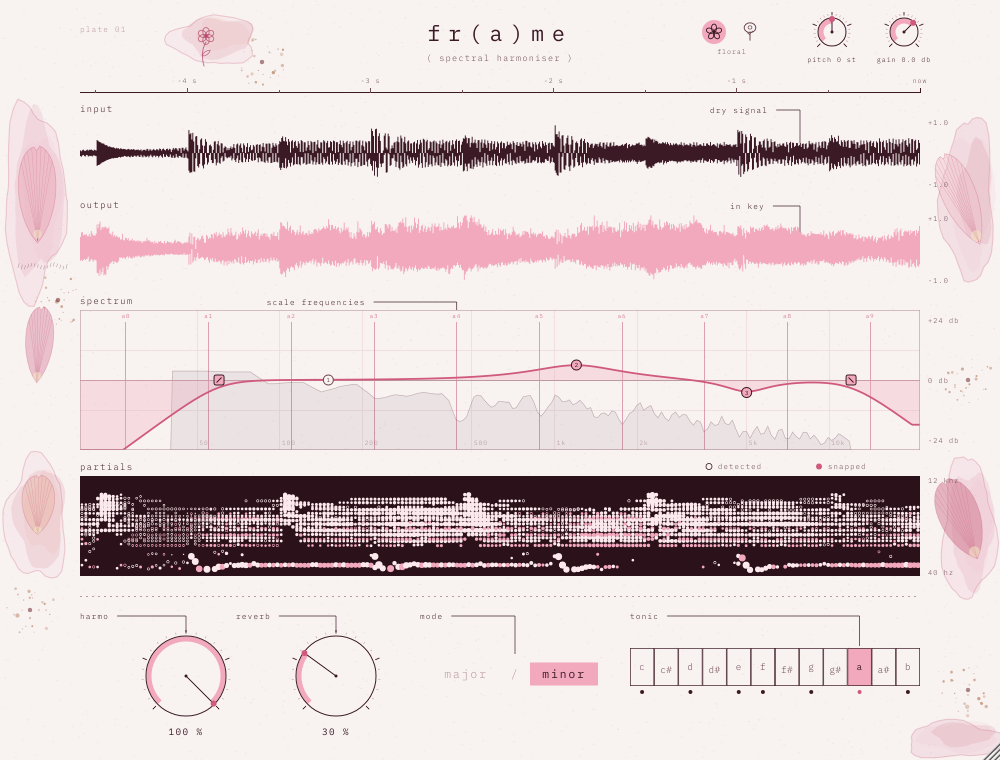
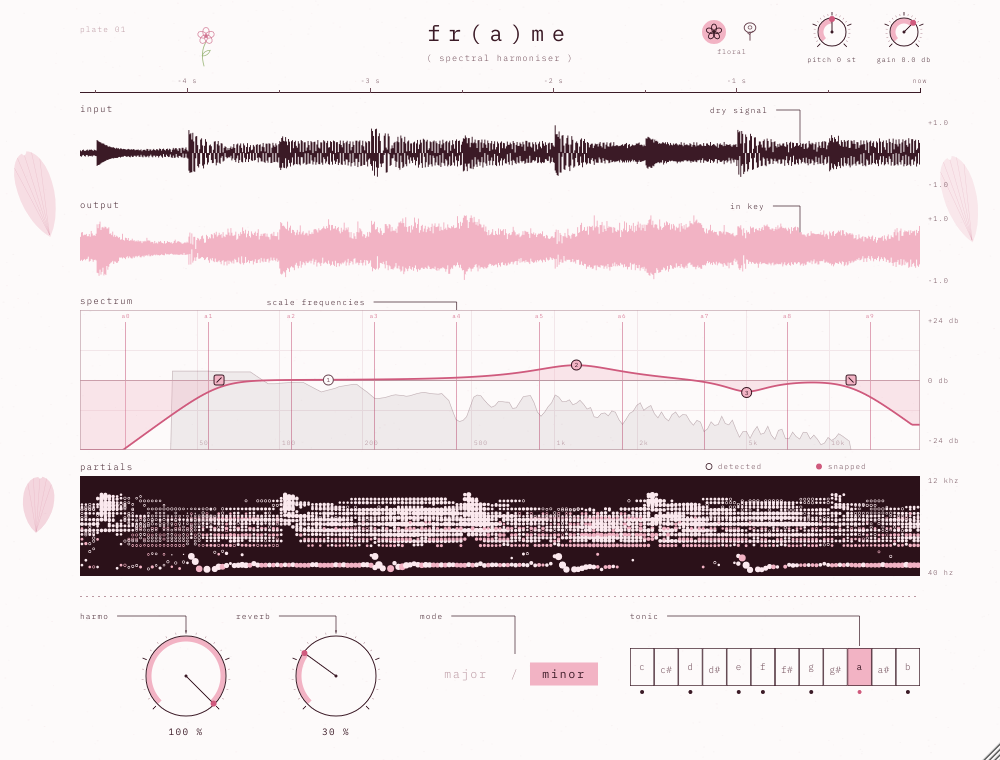
fr(a)me 2.4.1 : thèmes floral et garden épurés (blanc dominant, touches de rose et de vert)
Claude-Session: https://claude.ai/code/session_01BthVUY6Bak1JTWBvTbc3au

diff --git a/Source/FrameLookAndFeel.cpp b/Source/FrameLookAndFeel.cpp
@@ -184,12 +184,12 @@ namespace
 
     void paperGrain (juce::Graphics& g, juce::Rectangle<float> page, juce::Random& rng, juce::Colour tint, juce::Colour neutral)
     {
-        for (int i = 0; i < 2600; ++i)
+        for (int i = 0; i < 1200; ++i)                       // grain léger : le fond reste blanc
         {
             const float x = page.getX() + rng.nextFloat() * page.getWidth();
             const float y = page.getY() + rng.nextFloat() * page.getHeight();
             const bool tinted = rng.nextFloat() < 0.35f;
-            g.setColour ((tinted ? tint : neutral).withAlpha (0.05f + 0.07f * rng.nextFloat()));
+            g.setColour ((tinted ? tint : neutral).withAlpha (0.03f + 0.04f * rng.nextFloat()));
             g.fillRect (x, y, 1.0f + rng.nextFloat(), 1.0f);
         }
     }
@@ -205,230 +205,130 @@ namespace
         p.quadraticTo (x + lean * 0.25f, y - height * 0.6f, x + lean, y - height);
         g.strokePath (p, juce::PathStrokeType (width, juce::PathStrokeType::curved, juce::PathStrokeType::rounded));
     }
-
-    // Touffe d'herbes : n brins depuis une petite zone, tous penchés par le même vent.
-    void grassTuft (juce::Graphics& g, juce::Random& rng, float x, float y, float spread, float height, int n, const juce::Colour* cols, int numCols)
-    {
-        for (int i = 0; i < n; ++i)
-        {
-            const float bx = x + (rng.nextFloat() - 0.5f) * spread;
-            const float h = height * (0.45f + 0.55f * rng.nextFloat());
-            g.setColour (cols[rng.nextInt (numCols)].withAlpha (0.35f + 0.35f * rng.nextFloat()));
-            grassBlade (g, bx, y, h, h * (0.35f + 0.5f * rng.nextFloat()), 0.6f + 0.5f * rng.nextFloat());
-        }
-    }
-
-    // Forme organique (lavis, pétale) : contour au rayon bruité.
-    juce::Path blob (juce::Point<float> c, float rx, float ry, juce::Random& rng, float roughness, int points = 40)
-    {
-        juce::Path p;
-        float phase1 = rng.nextFloat() * 6.28f, phase2 = rng.nextFloat() * 6.28f;
-        for (int i = 0; i <= points; ++i)
-        {
-            const float a = juce::MathConstants<float>::twoPi * (float) i / (float) points;
-            const float k = 1.0f + roughness * (0.55f * std::sin (3.0f * a + phase1) + 0.35f * std::sin (5.0f * a + phase2)
-                                               + 0.25f * (rng.nextFloat() - 0.5f));
-            const juce::Point<float> q (c.x + std::cos (a) * rx * k, c.y + std::sin (a) * ry * k);
-            if (i == 0) p.startNewSubPath (q); else p.lineTo (q);
-        }
-        p.closeSubPath();
-        return p;
-    }
 }
+
+// Décors volontairement sobres : fond blanc dominant, trois touches de couleur
+// dans les marges, un petit croquis au crayon en haut à gauche.
+namespace { constexpr int decorBlocks[] = { 0, 2, 4 }; }   // haut gauche, haut droite, bas gauche
 
 void drawGardenDecor (juce::Graphics& g, juce::Rectangle<float> page)
 {
-    // Prairie : grain de papier, ciel de dune au crépuscule (très léger),
-    // collages d'herbe dans les marges, touffes couchées par le vent, brin au crayon.
     juce::Random rng (0x6a4d3e);
     paperGrain (g, page, rng, juce::Colour (0xff6c8f3a), juce::Colour (0xff8a8572));
 
-    // Ciel : voile lavande → transparent, derrière le titre.
-    g.setGradientFill (juce::ColourGradient (juce::Colour (0xffc8c2dc).withAlpha (0.20f), 0.0f, 0.0f,
-                                             juce::Colour (0xffe9c9cf).withAlpha (0.0f), 0.0f, 78.0f, false));
-    g.fillRect (page.withHeight (78.0f));
-
-    const juce::Colour grasses[] = { juce::Colour (0xff7f9f4a), juce::Colour (0xff5d7a3a), juce::Colour (0xffb7c98a),
-                                     juce::Colour (0xff9db86a), juce::Colour (0xffc2b77a), juce::Colour (0xff6f8f6a) };
+    const juce::Colour greens[] = { juce::Colour (0xff9db86a), juce::Colour (0xff7f9f4a), juce::Colour (0xffc3d4a0) };
     int k = 0;
-    for (auto b : collageBlocks)
+    for (int bi : decorBlocks)
     {
+        const auto b = collageBlocks[bi];
         const auto path = tornRect (b, rng);
-        g.setColour (grasses[k % 4].withAlpha (0.26f));
+        g.setColour (greens[k % 3].withAlpha (0.18f));
         g.fillPath (path);
-        // herbes couchées : longs brins penchés par le vent (comme les dunes)
+        // quelques herbes couchées par le vent
         g.saveState();
         g.reduceClipRegion (path);
-        for (int i = 0; i < 70; ++i)
+        for (int i = 0; i < 22; ++i)
         {
-            const float x = b.getX() - 10.0f + rng.nextFloat() * (b.getWidth() + 10.0f);
-            const float y = b.getY() + 8.0f + rng.nextFloat() * (b.getHeight() + 6.0f);
-            const float h = 10.0f + rng.nextFloat() * 16.0f;
-            g.setColour (grasses[(k + 1 + i) % 6].withAlpha (0.45f));
-            grassBlade (g, x, y, h, h * (0.6f + 0.6f * rng.nextFloat()), 0.6f);
+            const float x = b.getX() - 6.0f + rng.nextFloat() * (b.getWidth() + 6.0f);
+            const float y = b.getY() + 10.0f + rng.nextFloat() * b.getHeight();
+            const float h = 12.0f + rng.nextFloat() * 14.0f;
+            g.setColour (greens[(k + 1 + i) % 3].darker (0.2f).withAlpha (0.35f));
+            grassBlade (g, x, y, h, h * (0.6f + 0.5f * rng.nextFloat()), 0.6f);
+        }
+        // quelques fleurs des champs roses, très discrètes
+        for (int f = 0; f < 3; ++f)
+        {
+            const float fx = b.getX() + 6.0f + rng.nextFloat() * (b.getWidth() - 12.0f);
+            const float fy = b.getY() + 10.0f + rng.nextFloat() * (b.getHeight() - 20.0f);
+            g.setColour (juce::Colour (0xffe8a3b6).withAlpha (0.55f));
+            g.fillEllipse (fx - 1.6f, fy - 1.6f, 3.2f, 3.2f);
         }
         g.restoreState();
         ++k;
     }
 
-    // Touffes de prairie : bas de page (coins) et bas des marges.
-    for (float x = 6.0f; x < 120.0f; x += 9.0f)
-        grassTuft (g, rng, x, page.getBottom() - 2.0f, 8.0f, 30.0f + 14.0f * rng.nextFloat(), 6, grasses, 6);
-    for (float x = 884.0f; x < 980.0f; x += 9.0f)
-        grassTuft (g, rng, x, page.getBottom() - 2.0f, 8.0f, 26.0f + 14.0f * rng.nextFloat(), 6, grasses, 6);
-    grassTuft (g, rng, 34.0f, 420.0f, 18.0f, 26.0f, 9, grasses, 6);
-    grassTuft (g, rng, 962.0f, 300.0f, 18.0f, 24.0f, 9, grasses, 6);
-    grassTuft (g, rng, 960.0f, 600.0f, 16.0f, 22.0f, 8, grasses, 6);
-
-    // Brin dessiné au crayon, en haut à gauche (comme les croquis des planches).
+    // Brin dessiné au crayon, en haut à gauche (un bouton rose au bout).
     juce::Path stem;
     stem.startNewSubPath (196.0f, 64.0f);
     stem.cubicTo (200.0f, 48.0f, 206.0f, 34.0f, 218.0f, 22.0f);
-    g.setColour (juce::Colour (0xff5d7f34).withAlpha (0.75f));
-    g.strokePath (stem, juce::PathStrokeType (1.1f, juce::PathStrokeType::curved, juce::PathStrokeType::rounded));
+    g.setColour (juce::Colour (0xff6c8f3a).withAlpha (0.7f));
+    g.strokePath (stem, juce::PathStrokeType (1.0f, juce::PathStrokeType::curved, juce::PathStrokeType::rounded));
     auto leaf = [&g] (float x, float y, float angle, float len)
     {
         juce::Path l;
         l.startNewSubPath (0.0f, 0.0f);
         l.quadraticTo (len * 0.5f, -len * 0.35f, len, 0.0f);
         l.quadraticTo (len * 0.5f, len * 0.35f, 0.0f, 0.0f);
-        g.strokePath (l, juce::PathStrokeType (0.9f), juce::AffineTransform::rotation (angle).translated (x, y));
+        g.strokePath (l, juce::PathStrokeType (0.85f), juce::AffineTransform::rotation (angle).translated (x, y));
     };
     leaf (199.0f, 50.0f, -2.6f, 11.0f);
     leaf (203.0f, 40.0f, -0.5f, 10.0f);
     leaf (209.0f, 31.0f, -2.4f, 9.0f);
     leaf (215.0f, 25.0f, -0.8f, 8.0f);
-    // deux épis de graminée à côté
-    g.setColour (juce::Colour (0xff8a8a4a).withAlpha (0.7f));
-    for (int e = 0; e < 2; ++e)
-    {
-        const float ex = 226.0f + 9.0f * (float) e, ey = 64.0f;
-        juce::Path st; st.startNewSubPath (ex, ey); st.quadraticTo (ex + 2.0f, ey - 20.0f, ex + 7.0f, ey - 34.0f + 6.0f * (float) e);
-        g.strokePath (st, juce::PathStrokeType (0.8f));
-        for (int j = 0; j < 6; ++j)
-        {
-            const float t = 0.55f + 0.08f * (float) j;
-            const float px = ex + 7.0f * t * t, py = ey - (34.0f - 6.0f * (float) e) * t;
-            g.drawLine (px, py, px - 3.0f, py - 2.5f, 0.7f);
-            g.drawLine (px, py, px + 2.5f, py - 3.0f, 0.7f);
-        }
-    }
+    g.setColour (juce::Colour (0xffe8a3b6).withAlpha (0.8f));
+    g.fillEllipse (216.0f, 18.5f, 4.5f, 4.5f);
 }
 
 void drawFloralDecor (juce::Graphics& g, juce::Rectangle<float> page)
 {
-    // Floral : lavis d'aquarelle rose, pétales veinés, éclaboussures d'encre rouille,
-    // petite fleur au crayon (inspiré des planches florales de référence).
     juce::Random rng (0x7e7a15);
     paperGrain (g, page, rng, juce::Colour (0xffc76b86), juce::Colour (0xff9a8088));
 
-    const juce::Colour roses[] = { juce::Colour (0xffe9a3b6), juce::Colour (0xffd77c98), juce::Colour (0xfff2c0cc),
-                                   juce::Colour (0xffc9617f), juce::Colour (0xffe8b3a0) };
-
-    // 1. Lavis : grandes taches translucides, bord plus foncé (pigment accumulé).
-    struct Wash { float x, y, rx, ry; int col; };
-    const Wash washes[] = { { 34.0f, 200.0f, 30.0f, 95.0f, 0 }, { 968.0f, 200.0f, 26.0f, 80.0f, 1 },
-                            { 36.0f, 520.0f, 30.0f, 60.0f, 2 }, { 968.0f, 530.0f, 26.0f, 70.0f, 0 },
-                            { 214.0f, 40.0f, 42.0f, 24.0f, 2 }, { 955.0f, 740.0f, 48.0f, 18.0f, 1 } };
-    for (const auto& w : washes)
-    {
-        for (int layer = 0; layer < 3; ++layer)
-        {
-            const float sc = 1.0f - 0.18f * (float) layer;
-            const auto p = blob ({ w.x + 4.0f * (float) layer, w.y - 3.0f * (float) layer }, w.rx * sc, w.ry * sc, rng, 0.22f);
-            g.setColour (roses[(w.col + layer) % 5].withAlpha (0.14f));
-            g.fillPath (p);
-            if (layer == 0)
-            {
-                g.setColour (roses[3].withAlpha (0.28f));
-                g.strokePath (p, juce::PathStrokeType (1.1f, juce::PathStrokeType::curved));
-            }
-        }
-    }
-
-    // 2. Pétales veinés, posés dans les marges (aux emplacements des collages).
+    const juce::Colour roses[] = { juce::Colour (0xffeeb0c0), juce::Colour (0xfff4c9d3), juce::Colour (0xffe59bb0) };
+    const juce::Colour veinInk (0xffcf6a88);
     int k = 0;
-    for (auto b : collageBlocks)
+    for (int bi : decorBlocks)
     {
+        // Un pétale par emplacement : forme douce, quelques nervures fines.
+        const auto b = collageBlocks[bi];
         const auto c = b.getCentre();
-        const float len = juce::jmin (b.getHeight() * 0.42f, 48.0f), wid = b.getWidth() * 0.46f;
-        const float ang = (rng.nextFloat() - 0.5f) * 0.9f;
-        const auto tr = juce::AffineTransform::rotation (ang).translated (c.x, c.y);
+        const float len = juce::jmin (b.getHeight() * 0.40f, 44.0f), wid = b.getWidth() * 0.44f;
+        const auto tr = juce::AffineTransform::rotation ((rng.nextFloat() - 0.5f) * 0.7f).translated (c.x, c.y);
 
-        // contour de pétale : base étroite en bas, bord supérieur arrondi et un peu froissé
         juce::Path petal;
         petal.startNewSubPath (0.0f, len);
         petal.cubicTo (-wid * 1.2f, len * 0.4f, -wid * 1.1f, -len * 0.9f, -wid * 0.1f, -len);
-        petal.quadraticTo (0.0f, -len * 0.86f, wid * 0.15f, -len * 1.02f);
+        petal.quadraticTo (0.0f, -len * 0.88f, wid * 0.15f, -len * 1.02f);
         petal.cubicTo (wid * 1.15f, -len * 0.85f, wid * 1.2f, len * 0.35f, 0.0f, len);
         petal.closeSubPath();
 
-        g.setColour (roses[k % 5].withAlpha (0.42f));
+        g.setColour (roses[k % 3].withAlpha (0.38f));
         g.fillPath (petal, tr);
-        g.setColour (roses[3].withAlpha (0.35f));
-        g.strokePath (petal, juce::PathStrokeType (0.8f), tr);
 
-        // nervures : depuis la base, en éventail
         g.saveState();
         g.reduceClipRegion (petal, tr);
-        g.setColour (roses[3].withAlpha (0.38f));
-        for (int v = 0; v < 9; ++v)
+        g.setColour (veinInk.withAlpha (0.22f));
+        for (int v = 0; v < 5; ++v)
         {
-            const float t = ((float) v / 8.0f - 0.5f) * 1.6f;
+            const float t = ((float) v / 4.0f - 0.5f) * 1.4f;
             juce::Path vein;
             vein.startNewSubPath (0.0f, len * 0.95f);
             vein.quadraticTo (t * wid * 0.5f, 0.0f, t * wid * 1.1f, -len);
             g.strokePath (vein, juce::PathStrokeType (0.45f), tr);
         }
-        // cœur crème à la base
-        g.setColour (juce::Colour (0xfff3e3c4).withAlpha (0.6f));
-        g.fillEllipse (juce::Rectangle<float> (-4.0f, len * 0.72f, 8.0f, 9.0f).transformedBy (tr));
         g.restoreState();
         ++k;
     }
 
-    // 3. Éclaboussures d'encre rouille et petites taches sombres.
-    const juce::Point<float> splats[] = { { 58.0f, 300.0f }, { 968.0f, 380.0f }, { 262.0f, 62.0f }, { 968.0f, 690.0f }, { 30.0f, 610.0f } };
-    for (auto sp : splats)
-    {
-        for (int i = 0; i < 26; ++i)
-        {
-            const float r = 0.5f + 1.8f * rng.nextFloat() * rng.nextFloat();
-            const float d = 26.0f * std::sqrt (rng.nextFloat());
-            const float a = rng.nextFloat() * juce::MathConstants<float>::twoPi;
-            g.setColour (juce::Colour (0xffa9673f).withAlpha (0.25f + 0.35f * rng.nextFloat()));
-            g.fillEllipse (sp.x + std::cos (a) * d - r, sp.y + std::sin (a) * d - r, 2.0f * r, 2.0f * r);
-        }
-        g.setColour (juce::Colour (0xff6b2a2e).withAlpha (0.55f));
-        g.fillEllipse (sp.x - 2.2f, sp.y - 2.2f, 4.4f, 4.4f);
-    }
-
-    // 4. Petite écriture à l'encre (traits fins), le long d'un lavis.
-    g.setColour (juce::Colour (0xff4a2a2e).withAlpha (0.45f));
-    for (int i = 0; i < 16; ++i)
-    {
-        const float x = 18.0f + (float) i * 3.2f, y = 268.0f + std::sin ((float) i) * 1.5f;
-        g.drawLine (x, y, x + 1.2f, y - 3.0f - 2.0f * rng.nextFloat(), 0.5f);
-    }
-
-    // 5. Petite fleur dessinée au crayon, en haut à gauche (à la place du brin).
+    // Petite fleur dessinée au crayon, en haut à gauche.
     const juce::Point<float> fc (206.0f, 36.0f);
-    g.setColour (juce::Colour (0xffb64a6e).withAlpha (0.75f));
+    g.setColour (juce::Colour (0xff8fae6a).withAlpha (0.8f));                 // tige et feuille vert tendre
     juce::Path stem;
     stem.startNewSubPath (fc.x - 2.0f, 66.0f);
     stem.quadraticTo (fc.x - 6.0f, 52.0f, fc.x, fc.y + 6.0f);
-    g.strokePath (stem, juce::PathStrokeType (1.0f, juce::PathStrokeType::curved, juce::PathStrokeType::rounded));
-    for (int i = 0; i < 6; ++i)
-    {
-        const float a = juce::MathConstants<float>::twoPi * (float) i / 6.0f;
-        juce::Path pp;
-        pp.addEllipse (-3.2f, -8.5f, 6.4f, 9.0f);
-        g.strokePath (pp, juce::PathStrokeType (0.9f), juce::AffineTransform::rotation (a).translated (fc.x, fc.y));
-    }
-    g.fillEllipse (fc.x - 1.8f, fc.y - 1.8f, 3.6f, 3.6f);
-    juce::Path lf;                                           // une feuille sur la tige
+    g.strokePath (stem, juce::PathStrokeType (0.9f, juce::PathStrokeType::curved, juce::PathStrokeType::rounded));
+    juce::Path lf;
     lf.startNewSubPath (0.0f, 0.0f);
     lf.quadraticTo (5.0f, -3.5f, 10.0f, 0.0f);
     lf.quadraticTo (5.0f, 3.5f, 0.0f, 0.0f);
     g.strokePath (lf, juce::PathStrokeType (0.8f), juce::AffineTransform::rotation (-0.6f).translated (fc.x - 4.0f, 56.0f));
+    g.setColour (juce::Colour (0xffd0708e).withAlpha (0.75f));
+    for (int i = 0; i < 5; ++i)
+    {
+        juce::Path pp;
+        pp.addEllipse (-3.2f, -8.5f, 6.4f, 9.0f);
+        g.strokePath (pp, juce::PathStrokeType (0.85f),
+                      juce::AffineTransform::rotation (juce::MathConstants<float>::twoPi * (float) i / 5.0f).translated (fc.x, fc.y));
+    }
+    g.fillEllipse (fc.x - 1.6f, fc.y - 1.6f, 3.2f, 3.2f);
 }

diff --git a/Source/FrameLookAndFeel.h b/Source/FrameLookAndFeel.h
@@ -40,9 +40,9 @@ namespace Palette
         {
             case Theme::garden:
                 // prairie : vert d'herbe, papier de dune, encre de mousse
-                paper = juce::Colour (0xffeff0e3); ink = juce::Colour (0xff1d2a1a);
+                paper = juce::Colour (0xfffafbf7); ink = juce::Colour (0xff1d2a1a);
                 graphite = juce::Colour (0xff4b5a40); pencil = juce::Colour (0xff94a083);
-                faint = juce::Colour (0xffd6dcc6); accent = juce::Colour (0xff9cc35c);
+                faint = juce::Colour (0xffe3e8da); accent = juce::Colour (0xffa9cc6e);
                 accentInk = juce::Colour (0xff5d8a2b); scaleInk = juce::Colour (0xff4e7f24);
                 scoreBlack = juce::Colour (0xff1a2716); scoreDot = juce::Colour (0xffe7edd6);
                 onAccent = juce::Colour (0xff1d2a1a);
@@ -50,9 +50,9 @@ namespace Palette
             case Theme::floral:
             default:
                 // rose pétale : papier blanc rosé, encre prune, accent rose, cœur framboise
-                paper = juce::Colour (0xfff8f2f1); ink = juce::Colour (0xff3b1a26);
+                paper = juce::Colour (0xfffdfafa); ink = juce::Colour (0xff3b1a26);
                 graphite = juce::Colour (0xff6f4b57); pencil = juce::Colour (0xffbb98a2);
-                faint = juce::Colour (0xffefdfe2); accent = juce::Colour (0xfff2a9bd);
+                faint = juce::Colour (0xfff2e6e9); accent = juce::Colour (0xfff2b3c4);
                 accentInk = juce::Colour (0xffcf5a7d); scaleInk = juce::Colour (0xffbd3d66);
                 scoreBlack = juce::Colour (0xff2b1119); scoreDot = juce::Colour (0xfffbe9ee);
                 onAccent = juce::Colour (0xff3b1a26);
@@ -94,12 +94,12 @@ void drawMonoText (juce::Graphics& g, const juce::String& text, juce::Rectangle<
 /** Icônes de thème (fleur, petit arbre), dessinées au trait fin. */
 void drawThemeIcon (juce::Graphics& g, Theme t, juce::Rectangle<float> area, bool selected);
 
-/** Décor du thème « garden » : grain de papier, aplats de collage végétal,
-    brin dessiné au crayon (inspiré des planches de référence). */
+/** Décor du thème « garden » (sobre) : trois aplats d'herbe couchée dans les
+    marges, brin au crayon ; le fond reste blanc. */
 void drawGardenDecor (juce::Graphics& g, juce::Rectangle<float> page);
 
-/** Décor du thème « floral » : lavis d'aquarelle rose, pétales veinés dans les
-    marges, éclaboussures d'encre rouille, petite fleur au crayon. */
+/** Décor du thème « floral » (sobre) : trois pétales roses veinés dans les
+    marges, petite fleur au crayon ; le fond reste blanc. */
 void drawFloralDecor (juce::Graphics& g, juce::Rectangle<float> page);
 
 /** Ligne de rappel façon planche annotée : étiquette, trait horizontal,

diff --git a/README.md b/README.md
@@ -257,13 +257,12 @@ la durée. Deux têtes de lecture fondues, dont le point de reprise est choisi p
 (type SOLA) : transposition exacte (±0.2 cent mesuré à ±12, +7, −5), niveau conservé, pas de
 saut de phase. À 0, contourné : son strictement inchangé.
 
-**Thèmes** (en haut à droite) : petit arbre = **garden**, le thème au lancement — une
-prairie : verts d'herbe, papier de dune, voile de ciel lavande derrière le titre, collages
-d'herbes couchées par le vent dans les marges, touffes de graminées en bas de page, brin et
-épis au crayon. Fleur = **floral** (2.4, remplace « sun ») — rose pétale : encre prune,
-accent rose, lavis d'aquarelle au bord plus foncé, pétales veinés dans les marges,
-éclaboussures d'encre rouille, petite fleur au crayon. Le thème est sauvegardé avec le
-projet (les projets en « sun » s'ouvrent en floral).
+**Thèmes** (en haut à droite), volontairement sobres — le blanc domine, le rose et le vert
+dosés par touches : petit arbre = **garden**, le thème au lancement (verts d'herbe, trois
+aplats d'herbe couchée dans les marges avec quelques fleurs roses, brin au crayon au bouton
+rose) ; fleur = **floral** (rose pétale : encre prune, trois pétales veinés dans les marges,
+petite fleur rose à la tige verte). Le thème est sauvegardé avec le projet (les projets en
+« sun » s'ouvrent en floral).
 
 **REVERB** (0–100 %) : vraie réverbe ambient — réseau de 8 lignes à retard en feedback
 (matrice de Hadamard), longueurs modulées lentement (queue vivante, pas métallique), aigus
